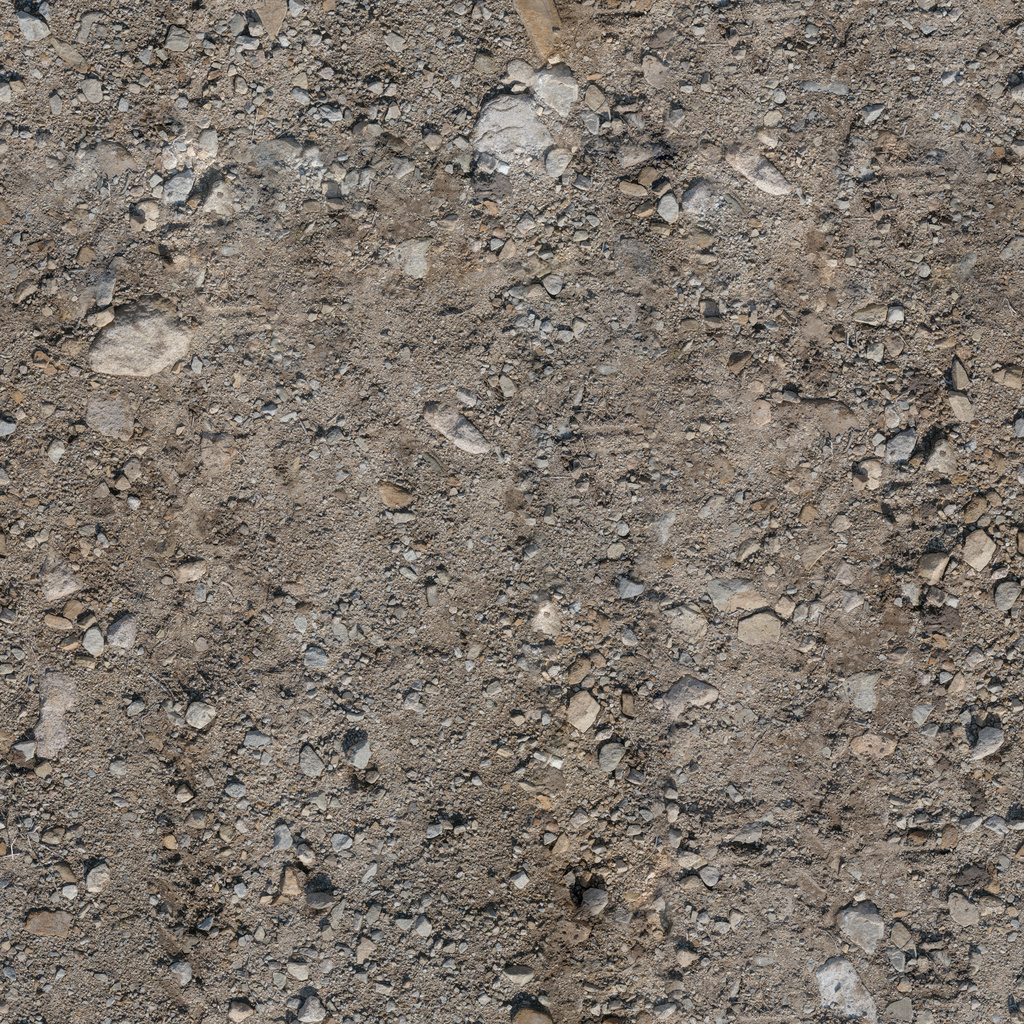
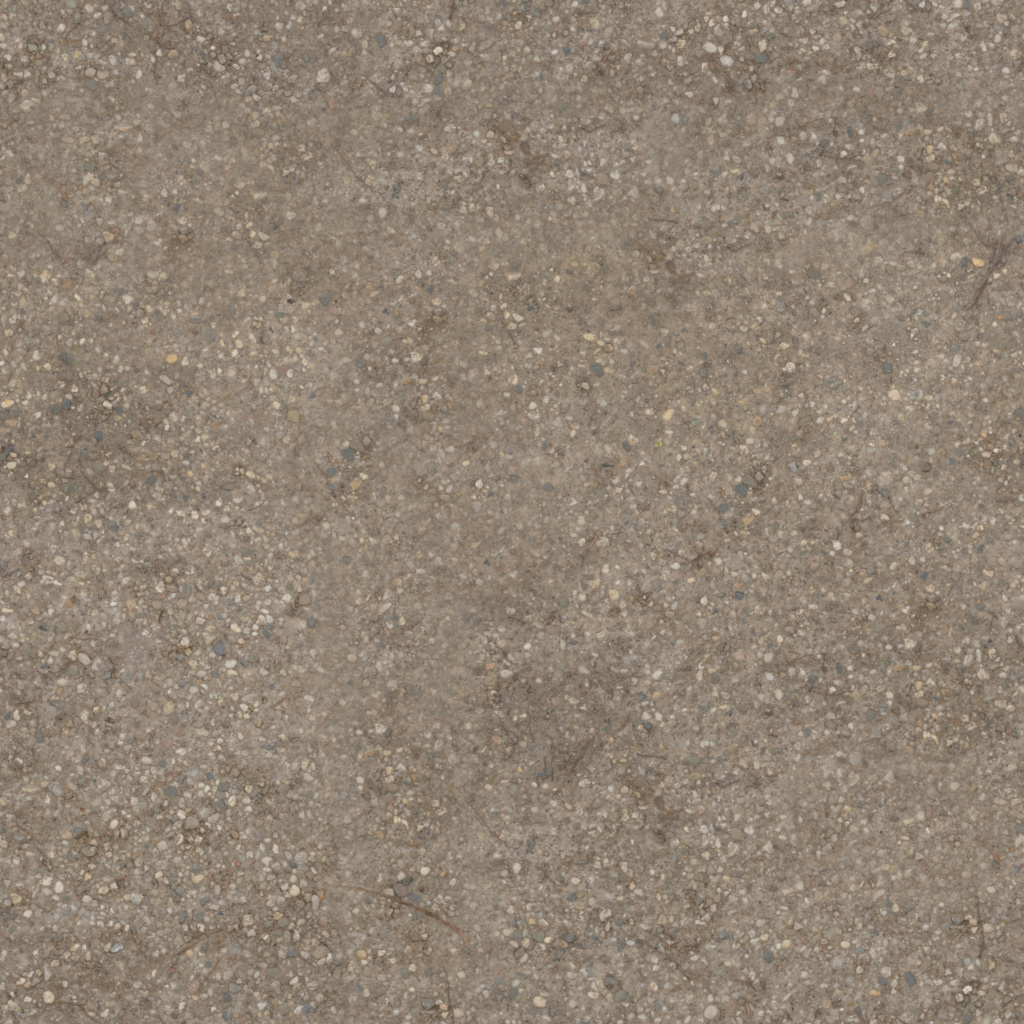
Add copy constructor to SceneObject Improve scene adding more objects Update readme to add screenshot

diff --git a/MyOpenGL/Scene.cpp b/MyOpenGL/Scene.cpp
@@ -160,31 +160,55 @@ void Scene::setup()
     
     // load statue from Wavefront file
     auto statue = FileSceneObject::LoadFromObjFile("milo.obj", m_sceneShader, Material::create_default());
-    statue->get_transformation().translate(0., 0., -2);
+    statue->get_transformation().translate(0., 0., -3);
     statue->get_transformation().rotate_x_deg(-90);
     statue->get_transformation().scale(1.0f / 300, 1.0f / 300, 1.0f / 300);
     m_objects.push_back(statue);
     
     // load colums around the arch from Wavefront file
     auto column1 = FileSceneObject::LoadFromObjFile("Column.obj", m_sceneShader, Material::create_dark_grey_rock());
+    auto column2 = new FileSceneObject(*column1); // creates a copy
+    auto column3 = new FileSceneObject(*column1); // creates a copy
+    auto column4 = new FileSceneObject(*column1); // creates a copy
     column1->get_transformation().translate(-0.8, 0., -1);
     column1->get_transformation().scale(1.0f / 3.5, 1.0f / 3.5, 1.0f / 3.5);
-    m_objects.push_back(column1);
-    auto column2 = FileSceneObject::LoadFromObjFile("Column.obj", m_sceneShader, Material::create_dark_grey_rock());
     column2->get_transformation().translate(+0.8, 0., -1);
     column2->get_transformation().scale(1.0f / 3.5, 1.0f / 3.5, 1.0f / 3.5);
+    column3->get_transformation().translate(-0.8, 0., -4.0f);
+    column3->get_transformation().scale(1.0f / 3.5, 1.0f / 3.5, 1.0f / 3.5);
+    column4->get_transformation().translate(+0.8, 0., -4.0f);
+    column4->get_transformation().scale(1.0f / 3.5, 1.0f / 3.5, 1.0f / 3.5);
+    m_objects.push_back(column1);
     m_objects.push_back(column2);
+    m_objects.push_back(column3);
+    m_objects.push_back(column4);
 
-    // load entry arch from Wavefront file
-    auto arch = FileSceneObject::LoadFromObjFile("Arch.obj", m_sceneShader, Material::create_yellow_rock());
-    arch->get_transformation().translate(0., 0., -1);
-    arch->get_transformation().scale(1.0f / 3.5, 1.0f / 3.5, 1.0f / 3.5);
-    m_objects.push_back(arch);
+    // load colums from Wavefront file
+    auto columnAlt1 = FileSceneObject::LoadFromObjFile("Column2.obj", m_sceneShader, Material::create_yellow_rock());
+    auto columnAlt2 = new FileSceneObject(*columnAlt1); // creates a copy
+    auto columnAlt3 = new FileSceneObject(*columnAlt1); // creates a copy
+    auto columnAlt4 = new FileSceneObject(*columnAlt1); // creates a copy
+    columnAlt1->get_transformation().translate(-0.8, 0., -2.0f);
+    columnAlt1->get_transformation().scale(1.0f / 5.5, 1.0f / 5.5, 1.0f / 5.5);
+    columnAlt2->get_transformation().translate(+0.8, 0., -2.0f);
+    columnAlt2->get_transformation().scale(1.0f / 5.5, 1.0f / 5.5, 1.0f / 5.5);
+    columnAlt3->get_transformation().translate(-0.8, 0., -3.0f);
+    columnAlt3->get_transformation().scale(1.0f / 5.5, 1.0f / 5.5, 1.0f / 5.5);
+    columnAlt4->get_transformation().translate(+0.8, 0., -3.0f);
+    columnAlt4->get_transformation().scale(1.0f / 5.5, 1.0f / 5.5, 1.0f / 5.5);
+    m_objects.push_back(columnAlt1);
+    m_objects.push_back(columnAlt2);
+    m_objects.push_back(columnAlt3);
+    m_objects.push_back(columnAlt4);
 
-    // load entry arch from Wavefront file
-    auto arch2 = FileSceneObject::LoadFromObjFile("Arch.obj", m_sceneShader, Material::create_yellow_rock());
-    arch2->get_transformation().translate(0., 0., -8);
+    // load front and back arch from Wavefront file
+    auto arch1 = FileSceneObject::LoadFromObjFile("Arch.obj", m_sceneShader, Material::create_yellow_rock());
+    auto arch2 = new FileSceneObject(*arch1); // copy ctor
+    arch1->get_transformation().translate(0., 0., -1.0f);
+    arch1->get_transformation().scale(1.0f / 3.5, 1.0f / 3.5, 1.0f / 3.5);
+    arch2->get_transformation().translate(0., 0., -4.0f);
     arch2->get_transformation().scale(1.0f / 3.5, 1.0f / 3.5, 1.0f / 3.5);
+    m_objects.push_back(arch1);
     m_objects.push_back(arch2);
 
     // load flashligth from Wavefront file

diff --git a/MyOpenGL/QuadSurfaceSceneObject.h b/MyOpenGL/QuadSurfaceSceneObject.h
@@ -5,18 +5,18 @@ class QuadSurfaceSceneObject : public SceneObject
 {
 public:
 
-    static std::vector<float> generate_texture_coordinates()
+    static std::vector<float> generate_texture_coordinates(float scale)
     {
         // create two triangles based on the corners
         return std::vector<float>{
             // first, upper right triangle
-            0.0f, 1.0f,
-            1.0f, 1.0f,
-            1.0f, 0.0f,
+            0.0f, 1.0f * scale,
+            1.0f * scale, 1.0f * scale,
+            1.0f * scale, 0.0f,
             // second, bottom left triangle
-            1.0f, 0.0f,
+            1.0f * scale, 0.0f,
             0.0f, 0.0f,
-            0.0f, 1.0f,
+            0.0f, 1.0f* scale,
         };
     }
     

diff --git a/MyOpenGL/SceneObject.h b/MyOpenGL/SceneObject.h
@@ -19,6 +19,7 @@ public:
     };
 
     SceneObject(const std::vector<float>& vertices, const std::vector<float>& normals, SceneObjectType type, Shader shader, Material material);
+    SceneObject(const SceneObject& object); // copy constructor
     virtual ~SceneObject() = default;
 
     virtual void configure(const Camera& camera, const glm::mat4& projection, const SceneLights& lights);
@@ -31,9 +32,10 @@ public:
     Shader& get_shader() { return m_shader; }
     const std::vector<float>& get_vertices() const { return m_vertices; }
     GLuint get_vao() const { return m_vao; }
+    float* get_vertices() { return &m_vertices[0]; }
+
 
     bool FollowsCamera;
-    bool DrawShadows;
 
 protected:
 

diff --git a/MyOpenGL/SceneObject.cpp b/MyOpenGL/SceneObject.cpp
@@ -36,6 +36,22 @@ SceneObject::SceneObject(
 
 }
 
+SceneObject::SceneObject(const SceneObject& object) :
+    FollowsCamera(object.FollowsCamera),
+    m_transformation(object.m_transformation),
+    m_material(object.m_material),
+    m_shader(object.m_shader),
+    m_vao(object.m_vao),
+    m_vbo(object.m_vbo),
+    m_nvbo(object.m_nvbo),
+    m_tvbo(object.m_tvbo),
+    m_vertices(object.m_vertices),
+    m_normals(object.m_normals),
+    m_texcoordinates(object.m_texcoordinates)
+
+{
+}
+
 void SceneObject::configure(const Camera& camera, const glm::mat4& projection, const SceneLights& lights)
 {
     // use specified shader for this object

diff --git a/MyOpenGL/Material.cpp b/MyOpenGL/Material.cpp
@@ -77,7 +77,7 @@ Material Material::create_dark_grey_rock()
     return Material(
         glm::vec3(0.1f, 0.1f, 0.1f),
         glm::vec3(0.2f, 0.2f, 0.2f),
-        glm::vec3(0.1f, 0.1f, 0.1f),
+        glm::vec3(0.2f, 0.2f, 0.2f),
         0
     );
 }
@@ -85,9 +85,9 @@ Material Material::create_dark_grey_rock()
 Material Material::create_yellow_rock()
 {
     return Material(
-        glm::vec3(0.12f, 0.11f, 0.1f),
-        glm::vec3(0.6f, 0.56f, 0.42f),
-        glm::vec3(0.2f, 0.2f, 0.15f),
+        glm::vec3(0.12f, 0.11f, 0.10f),
+        glm::vec3(0.60f, 0.56f, 0.42f),
+        glm::vec3(0.38f, 0.35f, 0.33f),
         4
     );
 }

diff --git a/MyOpenGL/SkyBoxSceneObject.cpp b/MyOpenGL/SkyBoxSceneObject.cpp
@@ -14,8 +14,6 @@ SkyBoxSceneObject::SkyBoxSceneObject(
     CubeSceneObject(Shader("skybox.vertex.shader", "skybox.fragment.shader")),
     m_skybox_texture_id(0)
 {
-    DrawShadows = false; // exclude from shadow map
-
     m_texture_files.push_back(directoryPath + posXFilename);
     m_texture_files.push_back(directoryPath + negXFilename);
     m_texture_files.push_back(directoryPath + posYFilename);

diff --git a/MyOpenGL/FloorSceneObject.cpp b/MyOpenGL/FloorSceneObject.cpp
@@ -23,7 +23,7 @@ FloorSceneObject::FloorSceneObject(Shader shader) :
     
     m_material = Material::create_texture("Images\\Floor.jpg", Material::create_default());
     auto f_texts = std::vector<float>{
-        QuadSurfaceSceneObject::generate_texture_coordinates()
+        QuadSurfaceSceneObject::generate_texture_coordinates(5.0f)
     };
     set_texture_coordinates(f_texts);
 }

diff --git a/README.md b/README.md
@@ -1,6 +1,8 @@
 # OpenGL-Demo
 A simple C++ OpenGL 3D demo of a First Person camera, moving in a scene, using a skybox with night texture, and some objects.
 
+## Screenshot
+![screen shot 1](https://raw.githubusercontent.com/giovani-luigi/OpenGL-Demo/master/screenshot.png)
 
 ## Scene
 A dark night, surrounded by mountains in the far plane, using the moon as main light source.
@@ -13,7 +15,7 @@ The camera is controlled in first person, and a flashlight can be toggled on/off
   - Thanks to Syoyo Fujita for his amazing "tiny_obj_loader.h" single-file OBJ parser
 - Loading texture files from 2D images
   - Thanks to Sean Barrett (and collaborators) for his amazing "stb_image.h" single-file image decoder.
-- "Infinite" floor Quad, so you can walk forever
+- "Infinite" floor Quad, so you can walk forever, and with a texture
 - Skybox with night sky and with the moon 
 - Main light (point light) to mimic the moon's light (no decay over distance)
 - A flashlight held in first person, with ON/OFF switch (mouse click to toggle a spot light)
@@ -21,6 +23,6 @@ The camera is controlled in first person, and a flashlight can be toggled on/off
 ## TODO
 - Shadows support
 - Simple collision detection
-- Add texture to the floor
 
-This is a work in progress... as of Dec. 2020
+## Author
+Giovani Luigi Rubenich Brondani
